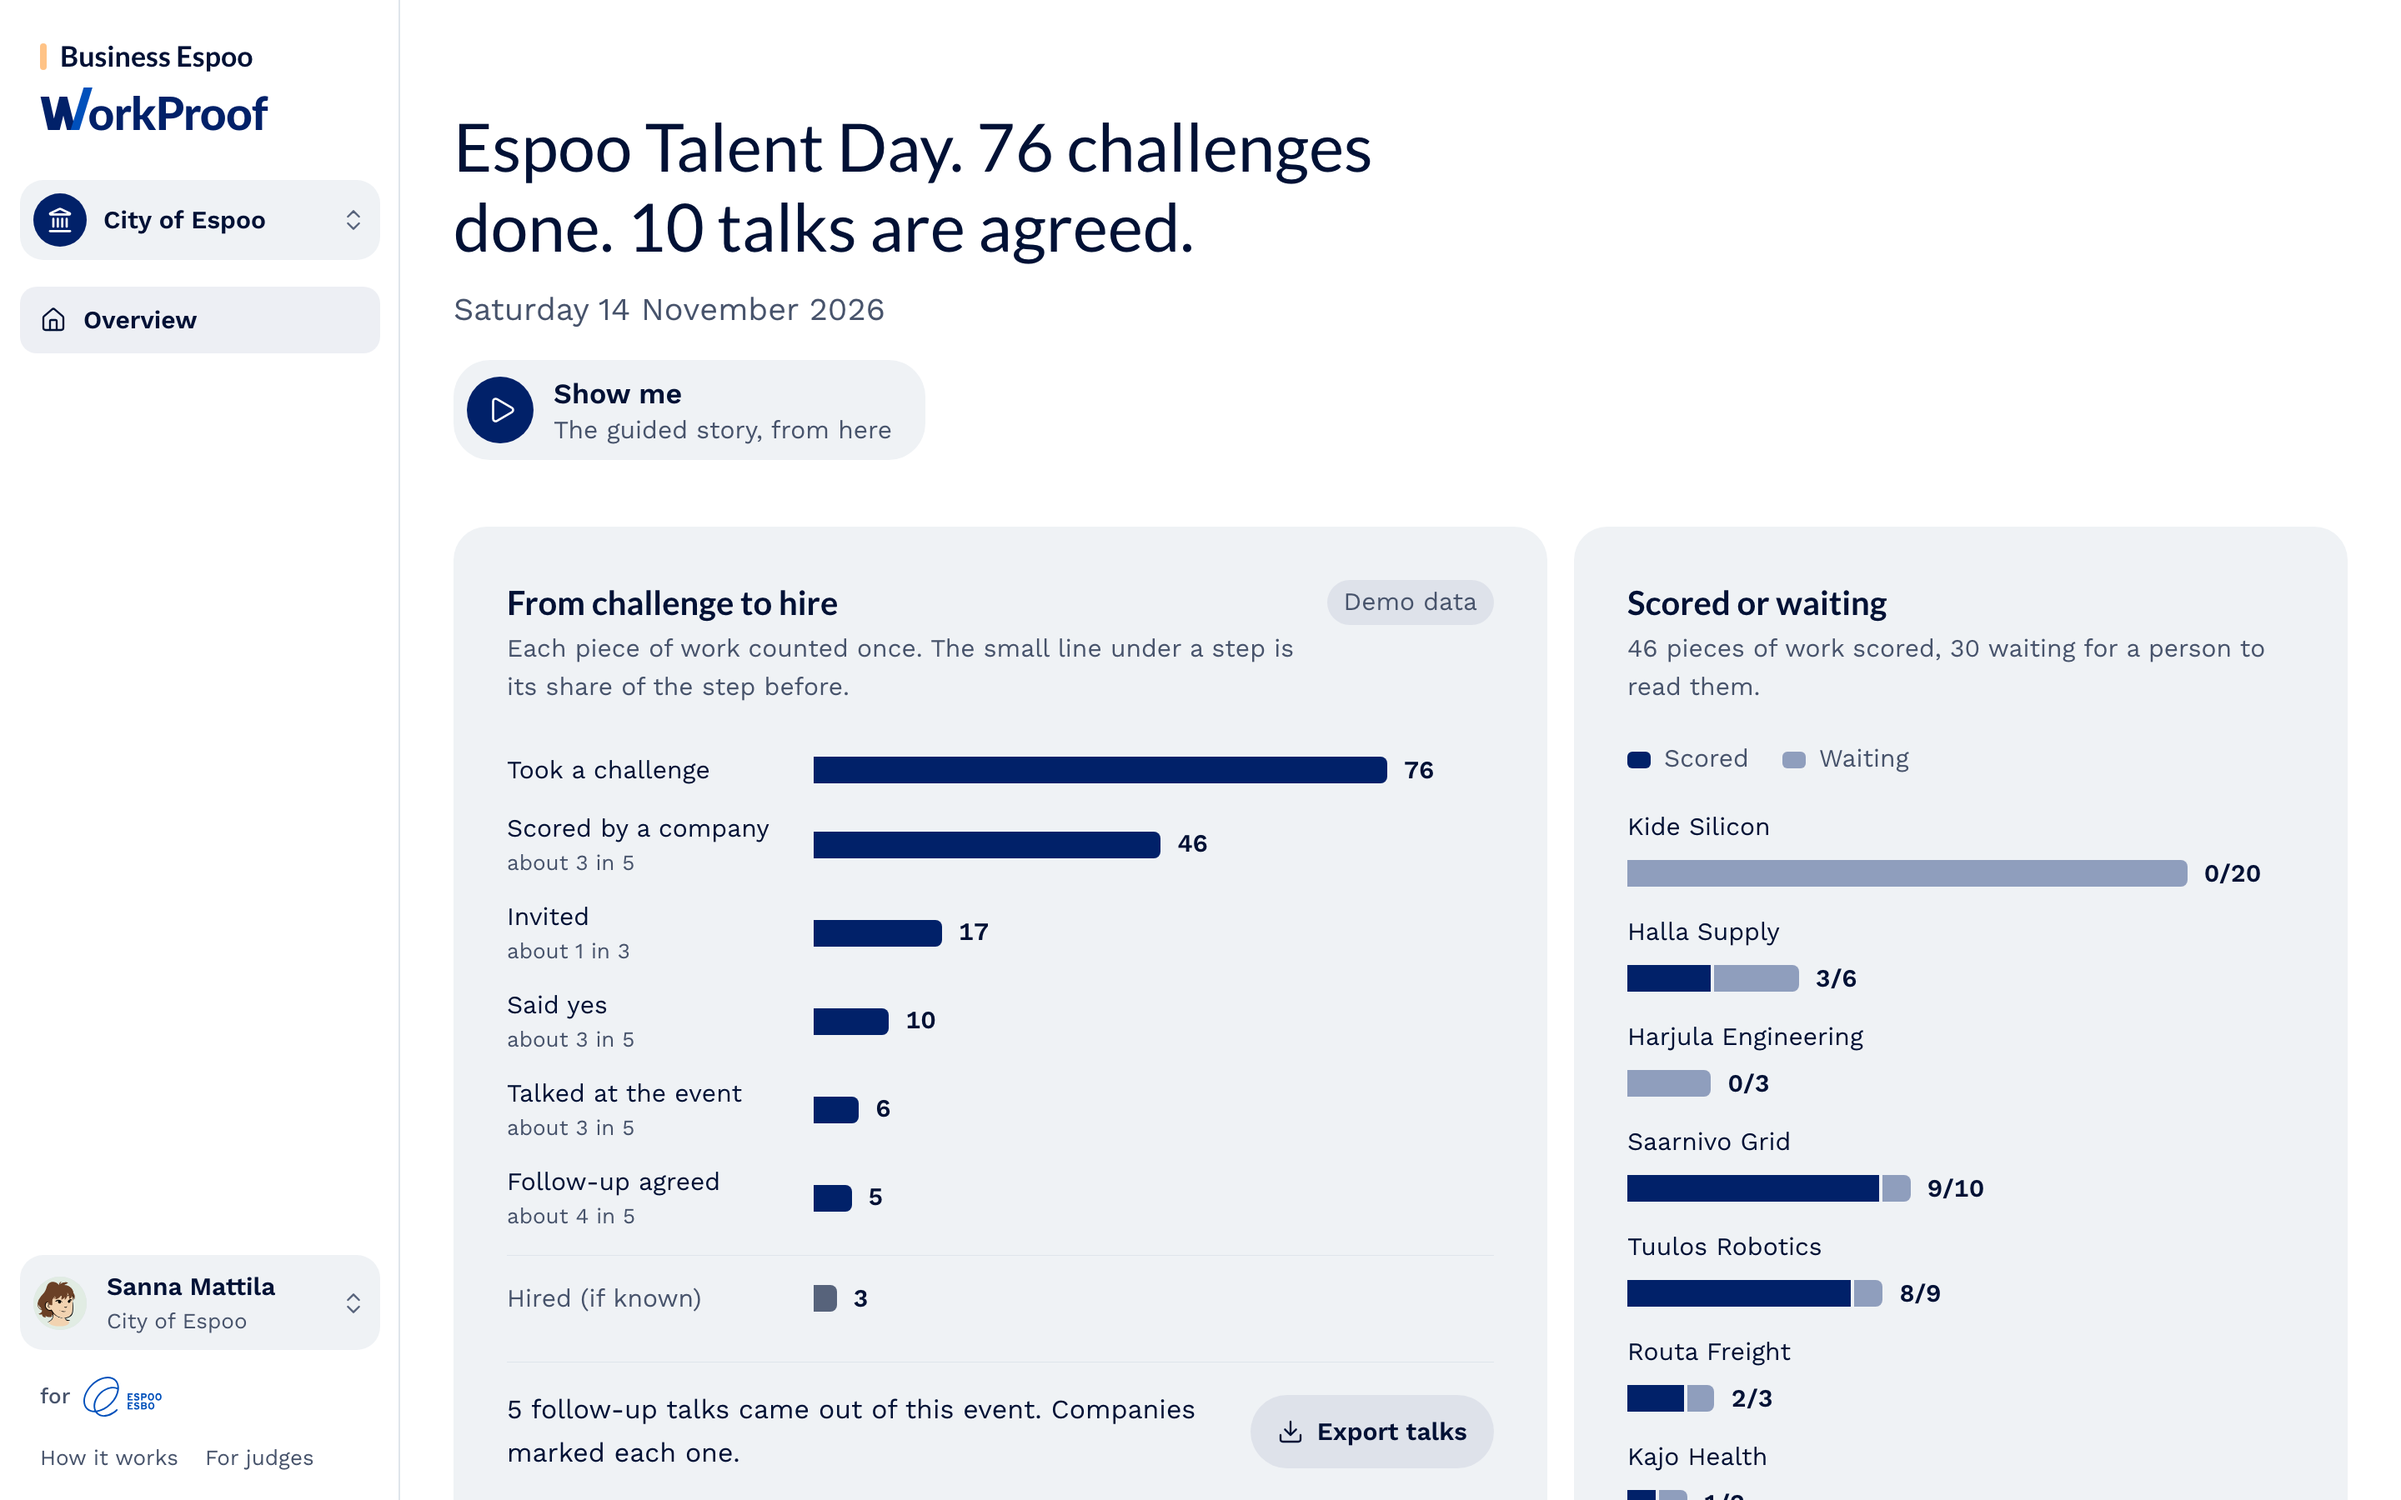
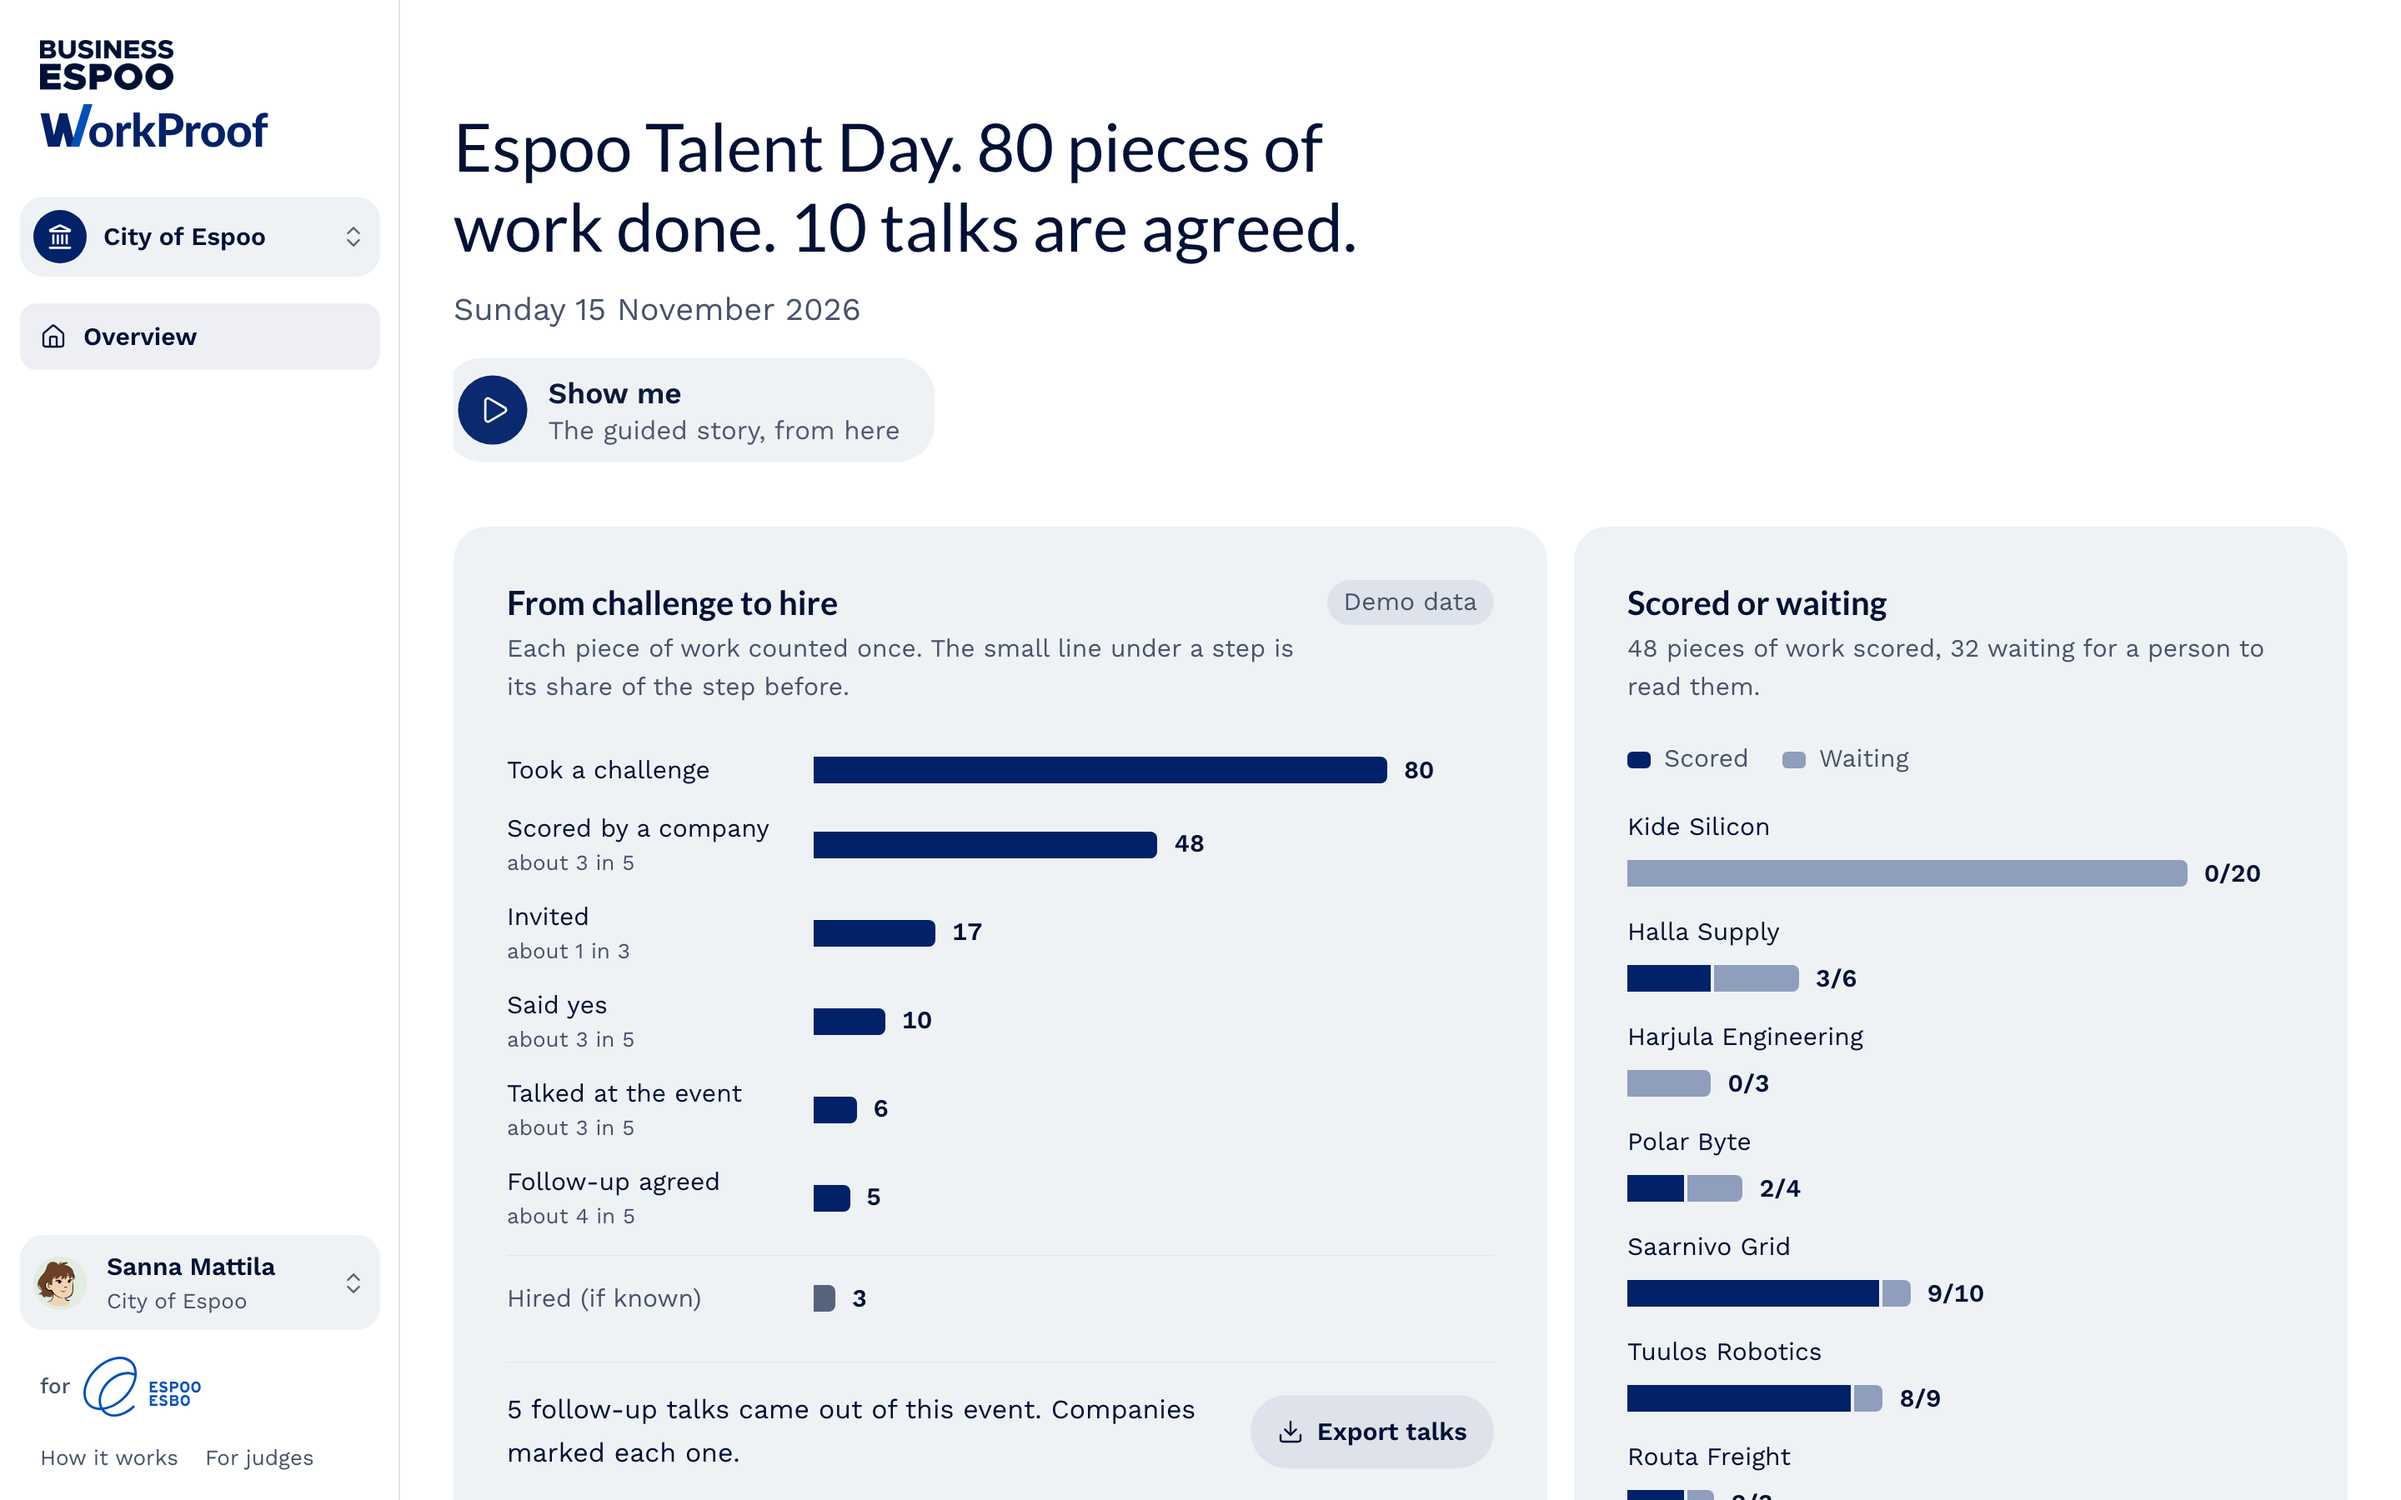
Refresh the README screenshots from the current app; city alt text gives today's 80 and 48

diff --git a/README.md b/README.md
@@ -252,7 +252,7 @@ Eighteen take 10 minutes, nine take 12, seven take 15, four take 20, one takes 3
 
 | | | |
 |---|---|---|
-| <img src="docs/images/seeker.png" alt="Job seeker: Halla Supply's challenge Make our order form easier to use as a listing, with the company logo, the picture of the work, the company facts and See my work, since Mikko did it" width="100%"> | <img src="docs/images/employer.png" alt="Company: Laura Niemi's view of Halla Supply, with 6 people who did the challenge, 3 waiting for a score and the top score of 9.0" width="100%"> | <img src="docs/images/city.png" alt="City of Espoo: the graph from challenge to hire (76 took a challenge, 46 scored, 17 invited, 10 said yes, 6 talked, 5 follow-ups, 3 hired) and the work scored or waiting per company" width="100%"> |
+| <img src="docs/images/seeker.png" alt="Job seeker: Halla Supply's challenge Make our order form easier to use as a listing, with the company logo, the picture of the work, the company facts and See my work, since Mikko did it" width="100%"> | <img src="docs/images/employer.png" alt="Company: Laura Niemi's view of Halla Supply, with 6 people who did the challenge, 3 waiting for a score and the top score of 9.0" width="100%"> | <img src="docs/images/city.png" alt="City of Espoo: the graph from challenge to hire (80 took a challenge, 48 scored, 17 invited, 10 said yes, 6 talked, 5 follow-ups, 3 hired) and the work scored or waiting per company" width="100%"> |
 | Job seeker: a challenge | Company: my challenges | City of Espoo |
 | <img src="docs/images/top-work.png" alt="Top work for Make our order form easier to use: each piece of work with Laura Niemi's total out of 10 and points per skill; Work K7 is invited and its name stays hidden until the person says yes" width="100%"> | <img src="docs/images/review.png" alt="Score work: Work K7 with personal details shown as hidden, Laura Niemi's points per skill, her total of 9.0 of 10 and her words to the person" width="100%"> | <img src="docs/images/my-work-phone.png" alt="My work on a phone: Mikko's invite from Laura Niemi at Halla Supply with her words, the meeting slot and his score of 9.0 of 10 per skill" width="60%"> |
 | Top work | Score work | My work on a phone |
